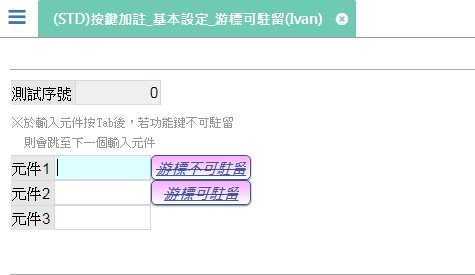
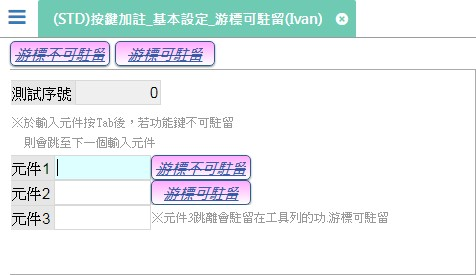
新增案例表單FX999500001876

diff --git a/8.9.2/RTE/IDE/FORM/ButtonAnnotation/README.md b/8.9.2/RTE/IDE/FORM/ButtonAnnotation/README.md
@@ -1,5 +1,5 @@
 ### <div id="hotkey">對應熱鍵</div>
-有設定時，按下對應的熱鍵則會執行此<rte>按鍵</rte>
+有設定時，按下對應的熱鍵則會執行此`按鍵`
 
 <test>測試</test>須測試下列項目 :
 
@@ -60,9 +60,9 @@
 
 是否保留系統功能。目前僅支援下列<rte>系統功能鍵</rte> :
 
-<rte>系統功能鍵.存回</rte> : 引擎會自動異動<rte>主表</rte>的資料。若不保留時，則會將資料暫存於<rte>暫存表格</rte>裡，由設計者自行設計<rte>資料交易</rte>儲存。
+<rte>系統功能鍵.存回</rte> : 引擎會自動異動<rte>主表</rte>的資料。若不保留時，則會將資料暫存於<rte>暫存表格</rte>裡，由設計者自行設計`資料交易`儲存。
 
-<rte>系統功能鍵.刪除</rte> : 引擎會自動異動<rte>主表</rte>的資料。若不保留時，則會將資料暫存於<rte>暫存表格</rte>裡，由設計者自行設計<rte>資料交易</rte>儲存。
+<rte>系統功能鍵.刪除</rte> : 引擎會自動異動<rte>主表</rte>的資料。若不保留時，則會將資料暫存於<rte>暫存表格</rte>裡，由設計者自行設計`資料交易`儲存。
 
 ### <div id="alert_message">使用系統提示訊息盒 <path>(系統按鈕)</path></div>
 <rte>系統功能鍵.存回</rte>、<rte>系統功能鍵.刪除</rte>執行前是否顯示系統提示訊息，詢問是否確定執行。
@@ -70,7 +70,7 @@
 ### 隱藏按鈕類別
 * `被動運作處理`
 
-	透過其他<rte>元件</rte>、<rte>按鍵</rte>呼叫執行。
+	透過其他`元件`、`按鍵`呼叫執行。
 
 * `控制記錄移動`
 
@@ -78,7 +78,7 @@
 
 ### 致能時機
 
-依<rte>表單狀態</rte>決定按鍵是否致能。
+依<rte>表單狀態</rte>決定按鍵是否<rte>致能</rte>。
 
 * `新增`
 * `修改`
@@ -98,41 +98,45 @@
 
 ### 游標可駐留
 
-在表單版面內的<rte>按鍵</rte>是否可以駐留。<ps>█</ps>
+`按鍵`是否可以<rte>駐留</rte>。
 
 ### <div id="chkrecord">勾選記錄</div>
 
-針對已勾選的資料進行相關操作。
+針對指定`檔區`已勾選的資料進行相關操作。
 
 ### <div id="mutitag_alias">檔區 <path>(勾選記錄)</path></div>
 
-勾選資料的檔區。<ps>█</ps>
+指定勾選資料的`檔區`。
 
 ### <div id="mutitag_before_save">使用前存入資料表 <path>(勾選記錄)</path></div>
 
-<rte>按鍵</rte>開始執行前，是否將勾選的資料，寫入`(系統工具)資料表.表單勾選記錄檔`的<rte>暫存表格</rte>(SYS_TEMP_EF000000000248)。<ps>█</ps>
+`按鍵`開始執行前，是否將勾選的資料，寫入<rte>(系統工具)資料表.表單勾選記錄檔</rte>的<rte>暫存表格</rte>(SYS_TEMP_EF000000000248)。
 
 ### <div id="mutitag_after_del">使用後清空資料表 <path>(勾選記錄)</path></div>
 
-<rte>按鍵</rte>執行結束前，是否將`(系統工具)資料表.表單勾選記錄檔`的<rte>暫存表格</rte>(SYS_TEMP_EF000000000248)的資料刪除。
+`按鍵`執行結束前，是否將<rte>(系統工具)資料表.表單勾選記錄檔</rte>的<rte>暫存表格</rte>(SYS_TEMP_EF000000000248)的資料刪除。
 
-<ps>注意</ps> 若選擇不要清空時，須自行設計`資料交易`刪除資料。但因IDE目前無法設計刪除<rte>暫存表格</rte>，所以資料會永遠保存在資料庫裡。<ps>█</ps>
+<ps>注意</ps> 若選擇不要清空時，須自行設計`資料交易`刪除資料。但因IDE目前無法設計刪除<rte>暫存表格</rte>，所以資料會永遠保存在資料庫裡。
 
 ### <div id="mutitag_after_clear">同時清空勾選記錄 <path>(勾選記錄)</path></div>
 
-<rte>按鍵</rte>執行結束前，是否清除勾選資料。但畫面不會自動重整，須自行設計`重顯網格` / `樹內容重顯`進行重顯。(#7858)
+`按鍵`執行結束前，是否清除勾選資料。但畫面不會自動重整，須自行設計`重顯網格` / `樹內容重顯`進行重顯。(#7858)
 
-<ps>注意</ps> 當`使用後清空資料表`=`是`時，才可設定。
+* 當`使用後清空資料表`=`是`時，才可設定。
 
 ### 編修使用前存入暫存資料表
-<rte>按鍵</rte>開始執行前，是否將所有<rte>表身檔區</rte>編修資料寫入<rte>主表</rte>的<rte>暫存表格</rte>(<rte>表頭檔區</rte>不會寫入)。<ps>█</ps>
-表單類型=雙檔/雙多筆時才有作用
-<ps>注意</ps> <rte>表單狀態</rte>須為<rte>新增狀態</rte>/<rte>修改狀態</rte>。
+`按鍵`開始執行前，是否將所有<rte>表身檔區</rte>編修資料寫入<rte>主表</rte>的<rte>暫存表格</rte>(<rte>表頭檔區</rte>不會寫入)。
+
+* 須符合以下條件才有作用
+
+	* `表單類型`=`單頭一身多筆型(雙檔)` / `多頭單身多筆型(雙多筆)` / `指定條件修改(雙改)`
+
+	* <rte>表單狀態</rte>須為<rte>新增狀態</rte> / <rte>修改狀態</rte>。
 
 ### <div id="add_schedule">列入排程 <path>(執行後續)</path></div>
-是否將此<rte>按鍵</rte>列入排程，依挑選排程的指定時間，自動執行<rte>按鍵</rte>。<ps>█</ps>
+是否將此`按鍵`列入排程，依挑選排程的指定時間，自動執行`按鍵`。
 
-* 有支援的內鍵類型：<ps>█</ps>
+* 有支援的`按鍵行為選項`：
 	* `資料交易`
 	* `邏輯函數`
 		* `BOM正展_用量計算`
@@ -145,7 +149,7 @@
 	* `郵件發送`
 	* `外部執行`
 		* `檔案合併`
-			* 前面內鍵含有`資料交換`的`匯出`，且為`郵件夾檔`/`插入物件`
+			* 前面<rte>內鍵</rte>含有`資料交換`的`匯出`，且為`郵件夾檔`/`插入物件`
 		* `執行程式`
 	* `資料交換`
 		* 為`郵件夾檔`/`插入物件`
@@ -157,77 +161,76 @@
 	* `全域變數`
 
 ### <div id="schedule">排程 <path>(執行後續\列入排程)</path></div>
-<rte>按鍵</rte>會依照指定排程的執行時間被執行。
+`按鍵`會依照指定排程的執行時間被執行。
 
-<ps>注意</ps> 指定的排程於運行台時，並非共用的主檔，而是歸屬在<rte>按鍵</rte>之下，可針對各<rte>按鍵</rte>再修改排程執行時間。
+<ps>注意</ps> 指定的排程於運行台時，並非共用的主檔，而是歸屬在`按鍵`之下，可針對各`按鍵`再修改排程執行時間。
 
 
 ### <div id="alert_msg">結束訊息 <path>(執行後續)</path></div>
-<rte>按鍵</rte>執行成功時，是否顯示訊息盒。
+`按鍵`執行成功時，是否顯示訊息盒。
 
 ### <div id="alert_msg_ctt">訊息內容 <path>(執行後續\結束訊息)</path></div>	
-<rte>按鍵</rte>執行成功時，顯示訊息盒的內容。
+`按鍵`執行成功時，顯示訊息盒的內容。
 
 ### <div id="alert_msg_replace">替代 <path>(執行後續\結束訊息)</path></div>	
-<rte>按鍵</rte>執行成功時，顯示訊息盒內容的替換字。
+`按鍵`執行成功時，顯示訊息盒內容的替換字。
 
 ### <div id="close_form">結束後關閉表單 <path>(執行後續)</path></div>	
-<rte>按鍵</rte>執行結束時，不管是否成功與否，皆自動關閉表單。
+`按鍵`執行結束時，不管是否成功與否，皆自動關閉表單。
 
 ### <div id="refresh">重顯網格 <path>(執行後續)</path></div>
-<rte>按鍵</rte>執行結束時，不管是否成功與否，重新下載指定檔區的資料，並重顯依附在該檔區的元件。
+`按鍵`執行結束時，不管是否成功與否，重新下載指定`檔區`的資料，並重顯依附在該`檔區`的`元件`。
 
 ### <div id="refresh_alias">檔區 <path>(執行後續\重顯網格)</path></div>
-重顯的檔區。
+重顯的`檔區`。
 
 ### <div id="refresh_type">資料行更新方式 <path>(執行後續\重顯網格)</path></div>
-指定檔區的資料更新方式
+指定`檔區`的資料更新方式
 
 ### <div id="refresh_type1">駐留筆 <path>(執行後續\重顯網格\資料行更新方式)</path></div>
 只重新下載駐留筆的資料。
+
+### <div id="refresh_relation_alias">關聯檔區 <path>(執行後續\重顯網格\資料行更新方式\駐留筆)</path></div>
+是否連同`關聯檔區`也一併重新下載，並重顯依附在該`檔區`的`元件`。
 
 ### <div id="refresh_type2">全部記錄 <path>(執行後續\重顯網格\資料行更新方式)</path></div>
 
 重新下載所有的資料。
 
-### <div id="refresh_relation_alias">關聯檔區 <path>(執行後續\重顯網格\資料行更新方式\駐留筆)</path></div>
-是否連同`關聯檔區`也一併重新下載，並重顯依附在該檔區的元件。
-
 ### <div id="refresh_tree">樹內容重顯 <path>(執行後續)<path></div>
 * `駐留筆`
 
-	只重顯`駐留節點`。
+	只重顯駐留節點。
 
 * `正展`
 
-	依`駐留節點`，重顯該節點，及子階節點。
+	依駐留節點，重顯該節點，及子階節點。
 
 * `逆展`
 
-	依`駐留節點`，重顯該節點，及父階節點、父父階節點、...。
+	依駐留節點，重顯該節點，及父階節點、父父階節點、...。
 
 * `根節點`
 
-	依`根節點`，重顯該節點，及子階節點。
+	依根節點，重顯該節點，及子階節點。
 
 * `整棵樹`
 
 	已展開節點重整。
 
-
 ### 操作提示
-滑鼠移入按鍵時顯示的提示訊息。
+滑鼠移入`按鍵`時顯示的提示訊息。
 
 ### 功能描述
-可輸入此按鍵的功能說明。
+可輸入此`按鍵`的功能說明。
 
 <ps>注意</ps> 此設定不會進到RTE。
 
 ### <div id="timing_execution">執行內鍵_執行時機</div>
 
-當`新增存回`、`修改存回`、`刪除`有其他`內鍵`，除了`資料交易`會在存回時同時執行，其餘都是存回後才會執行。
+當`新增存回`、`修改存回`、`刪除`有其他<rte>內鍵</rte>，除了`資料交易`會在存回時同時執行，其餘都是存回後才會執行。
 
-* `同時`
-* `延續`
+* <rte>同時</rte>
+* <rte>延續</rte>
 
-<ps>注意</ps> 匯入程式會判斷當內鍵類型=3.資料交易時，內鍵執行時機為1.同時，其餘皆給2.延續。
+<ps>注意</ps> 匯入程式會判斷當`按鍵行為選項`=`資料交易`時，<rte>內鍵</rte>執行時機為1.<rte>同時</rte>，其餘皆給2.<rte>延續</rte>。

diff --git a/8.9.2/RTE/IDE/FORM/ButtonAnnotation/Example/FX999500001876.md b/8.9.2/RTE/IDE/FORM/ButtonAnnotation/Example/FX999500001876.md
@@ -2,23 +2,17 @@
 
 ![FX999500001876]
 
-## 操作步驟
-* 新增表頭資料後存回	
-	
-* ### 測試案例：新增=Y & 修改=Y & 瀏覽=Y	
-	* 功.致能時機 = 皆可：新增狀態、修改狀態、瀏覽狀態 時致能
-
 ## 操作步驟		
 * 進入新增	
-		
+
 * ### 測試案例：游標可駐留=N	
-	* 駐留元件.元件1，因為功.游標不可駐留 的游標可駐留為N，所以按Tab鍵會直接駐留到元件.元件2
+	* 駐留元件.元件1，因為編輯區的功.游標不可駐留 的游標可駐留為N，所以按Tab鍵會直接駐留到元件.元件2
+	* 駐留元件.元件3，因為工具列上的功.游標不可駐留 的游標可駐留為N，所以按Tab鍵會直接駐留到工具列上的功.游標可駐留
 		
 * ### 測試案例：游標可駐留=Y	
-	* 駐留元件.元件2，按Tab鍵會駐留到功.游標可駐留，再按一次Tab才會駐留到元件.元件3。功能鍵駐留樣式如右圖所示
-
-
-
+	* 駐留元件.元件2，按Tab鍵會駐留到編輯區的功.游標可駐留，再按一次Tab才會駐留到元件.元件3。功能鍵駐留樣式如右圖所示 → ![FX999500001876_focus]
+	* 駐留元件.元件3，按Tab鍵會駐留到工具列上的功.游標可駐留，再按一次Tab才會駐留到元件.元件1。功能鍵駐留樣式如右圖所示 → ![FX999500001876_focus]
+	
 ## <div id="history">案例異動說明</div>
 |異動版本|異動日期|異動人員|修正內容|
 |--------|-------|-------|-------|
@@ -26,3 +20,4 @@
 
 <!--超連結引用ps.畫面上看不到-->
 [FX999500001876]:attachment/FX999500001876.jpg
+[FX999500001876_focus]:attachment/FX999500001876_focus.jpg

diff --git a/8.9.2/RTE/IDE/FORM/ButtonAnnotation/Example/FX999500001767.md b/8.9.2/RTE/IDE/FORM/ButtonAnnotation/Example/FX999500001767.md
@@ -55,7 +55,7 @@
 
 ![FX999500001767_savetemp]
 
-* 功.所有欄位型態 [(STD)按鍵加註_基本設定_編修前存入暫存_所有型態(Ivan)]() **<font color=#ff0000>案例待補</font>**
+* 功.所有欄位型態 [(STD)按鍵加註_基本設定_編修前存入暫存_所有型態(Ivan)]
 
 * 功.表身樹 [(STD)按鍵加註_基本設定_編修前存入暫存_表身樹(Ivan)]() **<font color=#ff0000>案例待補</font>**
 
@@ -87,6 +87,7 @@
 [(STD)按鍵加註_基本設定_隱藏按鈕_條件多筆(Ivan)]:FX999500001957.md
 [(STD)按鍵加註_基本設定_致能時機(Ivan)]:FX999500001873.md
 [(STD)按鍵加註_基本設定_游標可駐留(Ivan)]:FX999500001876.md
+[(STD)按鍵加註_基本設定_編修前存入暫存_所有型態(Ivan)]:FX999500001878.md
 
 [FX999500001767_hotkey]:attachment/FX999500001767_hotkey.jpg
 [FX999500001767_sysbtn]:attachment/FX999500001767_sysbtn.jpg
